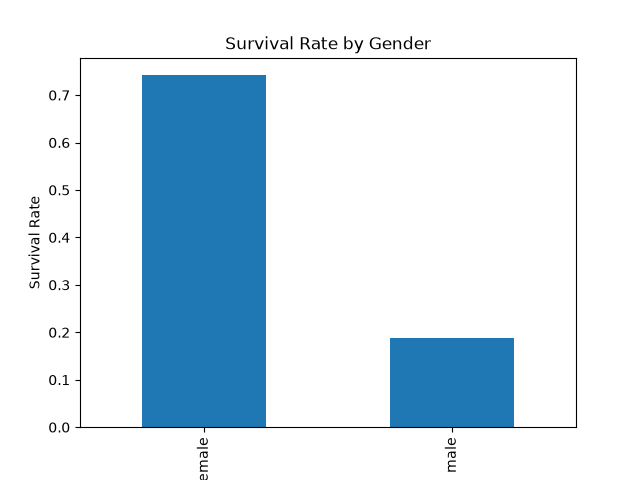
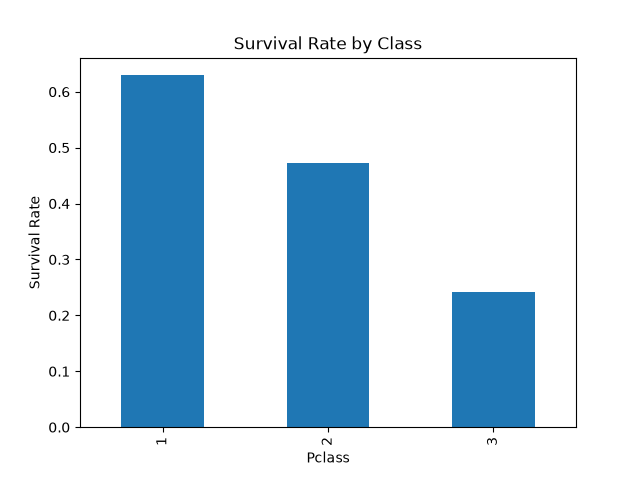
Fix wrong code and plot for survival rate and class

diff --git a/pandas/visualisation.py b/pandas/visualisation.py
@@ -33,6 +33,13 @@ plt.show()
 
 # ================================================================
 
+df.groupby("Pclass")["Survived"].mean().plot(kind="bar")
+plt.title("Survival Rate by Class")
+plt.ylabel("Survival Rate")
+plt.show()
+
+# ================================================================
+
 numeric_df = df.select_dtypes(include=["number"])
 corr = numeric_df.corr()
 sns.heatmap(corr, annot=True)
